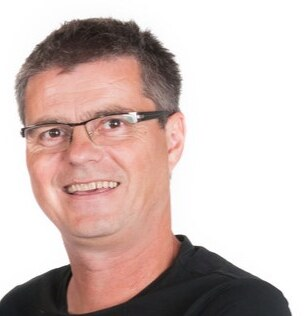
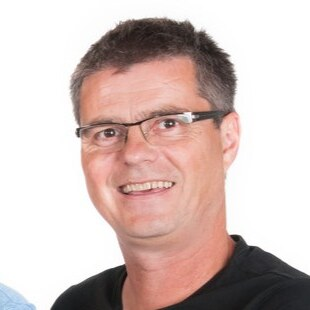
About: show both portraits as circles

diff --git a/site/styles.css b/site/styles.css
@@ -211,7 +211,7 @@ main>section h2{font-size:1.625rem;margin-bottom:1.5rem}
 .blog-fig-single{max-width:26rem}
 .blog-fig a{display:block}
 .person{display:grid;gap:1.25rem;align-items:start}
-.person img{width:100%;max-width:14rem;height:auto;border-radius:.5rem}
+.person img{width:100%;max-width:14rem;height:auto;aspect-ratio:1;object-fit:cover;object-position:top;border-radius:50%}
 .person h3{margin-top:0}
 .person+.person{margin-top:2rem}
 @media (min-width:40rem){.person{grid-template-columns:14rem 1fr;gap:2rem}}

diff --git a/site/about/index.html b/site/about/index.html
@@ -66,7 +66,7 @@
         </div>
 
         <div class="person">
-          <img src="/assets/steen-glud.jpg" width="305" height="316" alt="Portrait of Steen Glud">
+          <img src="/assets/steen-glud.jpg" width="310" height="310" alt="Portrait of Steen Glud">
           <div>
             <h3>Steen Glud</h3>
             <ul>
